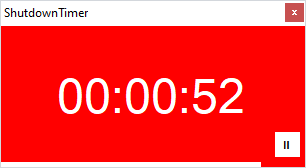
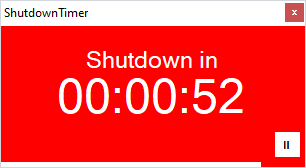
Set default action to reboot on Windows Server

Changed region(s): [[0.2647, 0.2976, 0.7353, 0.4167]]

diff --git a/ShutdownTimer/ShutdownTimer.cs b/ShutdownTimer/ShutdownTimer.cs
@@ -12,6 +12,7 @@ namespace ShutdownTimer
     public partial class ShutdownTimerForm : Form
     {
         CommandLineParameters args;
+        string action = (IsWindowsServer()) ? "reboot" : "shutdown";
         double ShutdownTime = 60;
         int progressHeight = 5;
         int progressWidth = 0;
@@ -26,32 +27,43 @@ namespace ShutdownTimer
             InitializeComponent();
             args = new CommandLineParameters();
             args.loadFromFile();
-            if (args.exists("width"))
-                int.TryParse(args.get("width"), out windowWidth);
-            windowWidth = Math.Min(1000, Math.Max(260, windowWidth));
-            if (args.exists("height"))
-                int.TryParse(args.get("height"), out windowHeight);
-            windowHeight = Math.Min(1000, Math.Max(90, windowHeight));
-            if (args.exists("fontsize"))
-                int.TryParse(args.get("fontsize"), out fontSize);
-            fontSize = Math.Min(100, Math.Max(3, fontSize));
-            if (args.exists("font"))
-                font = args.get("font");
-            if (args.exists("timer"))
-            {
-                string[] timeArr = args.get("timer").Split(':');
-                Array.Reverse(timeArr);
-                double[] mul = new double[] { 1, 60, 60*60 };
-                ShutdownTime = 0;
-                for (int i=0; i<timeArr.Length && i<mul.Length; i++)
+            try {
+                action = (args.exists("reboot")) ? "reboot" :
+                    (args.exists("shutdown")) ? "shutdown" :
+                    action;
+                if (args.exists("width"))
+                    int.TryParse(args.get("width"), out windowWidth);
+                windowWidth = Math.Min(1000, Math.Max(260, windowWidth));
+                if (args.exists("height"))
+                    int.TryParse(args.get("height"), out windowHeight);
+                windowHeight = Math.Min(1000, Math.Max(90, windowHeight));
+                if (args.exists("fontsize"))
+                    int.TryParse(args.get("fontsize"), out fontSize);
+                fontSize = Math.Min(100, Math.Max(3, fontSize));
+                if (args.exists("font"))
+                    font = args.get("font");
+                if (args.exists("timer"))
                 {
-                    double t = 0;
-                    double.TryParse(timeArr[i], out t);
-                    ShutdownTime += t * mul[i];
+                    string[] timeArr = args.get("timer").Split(':');
+                    Array.Reverse(timeArr);
+                    double[] mul = new double[] { 1, 60, 60 * 60 };
+                    ShutdownTime = 0;
+                    for (int i = 0; i < timeArr.Length && i < mul.Length; i++)
+                    {
+                        double t = 0;
+                        double.TryParse(timeArr[i], out t);
+                        ShutdownTime += t * mul[i];
+                    }
                 }
-            } else if (args.exists("at")) {
-                ShutdownTime = (double)GetSecondsUntilTime(args.get("at"));
+                else if (args.exists("at"))
+                {
+                    ShutdownTime = (double)GetSecondsUntilTime(args.get("at"));
+                }
+            } catch(Exception err) {
+                MessageBox.Show("Fel vid tolkning av parametrar.\n"+err.Message);
+                Environment.Exit(1);
             }
+
             ShutdownTime = (Math.Floor(ShutdownTime) > 0) ? Math.Floor(ShutdownTime) : 60;
             timerlabel.Text = TimeSpan.FromSeconds(ShutdownTime).ToString();
             timerprogress.Text = "";
@@ -82,13 +94,13 @@ namespace ShutdownTimer
             pauseButton.Visible = !args.exists("nopause");
             pauseButton.Left = (int)(this.ClientSize.Width - (pauseButton.Width + 5));
             pauseButton.Top = (int)(this.ClientSize.Height - (pauseButton.Height + 5 + ((timerprogress.Visible) ? progressHeight : 0)));
-            if (args.exists("reboot")){
+            if (action == "reboot"){
                 actionlabel.Text = "Reboot in";
             } else {
                 actionlabel.Text = "Shutdown in";
             }
             actionlabel.Font = new Font(font, fontSize / 2);
-            actionlabel.Top = (int)(this.ClientSize.Height / 2) - (actionlabel.Height / 2) - (int)(timerlabel.Height / 1.5);
+            actionlabel.Top = timerlabel.Top - actionlabel.Height + (int)(actionlabel.Height * 0.2);
             actionlabel.Left = (int)(this.ClientSize.Width / 2) - (actionlabel.Width / 2);
             if (args.exists("background"))
             {
@@ -124,7 +136,7 @@ namespace ShutdownTimer
                 timer1.Stop();
                 timer1.Enabled = false;
                 StopWatch.Stop();
-                Shutdown(args.exists("reboot"));
+                Shutdown(action=="reboot");
             }
         }
         private void pauseButton_Click(object sender, EventArgs e)
@@ -151,6 +163,18 @@ namespace ShutdownTimer
             }
             return (int)timeDifference.TotalSeconds;
         }
+        private static bool IsWindowsServer()
+        {
+            using (var searcher = new ManagementObjectSearcher("SELECT * FROM Win32_OperatingSystem"))
+            {
+                foreach (var os in searcher.Get())
+                {
+                    return os["ProductType"].ToString() != "1"; // 1 = Workstation, 2 or 3 = Server
+                }
+            }
+            return false;
+        }
+
         void Shutdown(bool reboot = false)
         {
             ManagementBaseObject mboShutdown = null;

diff --git a/ShutdownTimer/Properties/AssemblyInfo.cs b/ShutdownTimer/Properties/AssemblyInfo.cs
@@ -32,5 +32,5 @@ using System.Runtime.InteropServices;
 // You can specify all the values or you can default the Build and Revision Numbers 
 // by using the '*' as shown below:
 // [assembly: AssemblyVersion("1.0.*")]
-[assembly: AssemblyVersion("1.0.2.0")]
-[assembly: AssemblyFileVersion("1.0.2.0")]
+[assembly: AssemblyVersion("1.0.3.0")]
+[assembly: AssemblyFileVersion("1.0.3.0")]

diff --git a/README.md b/README.md
@@ -6,18 +6,19 @@ A simple shutdown timer using .NET Framework 2.0 and no additional dependencies.
 
 ## Usage
 
-```
+```Bash
 ShutdownTimer.exe --timer 120
 ```
 
 ## Options
 
-```
+```Bash
   ShutdownTimer --timer 120            Set shutdown timer in seconds or hh:mm:ss from now
   ShutdownTimer --at 17:00:00          Set shutdown at time hh:mm:ss
   ShutdownTimer --noprogress           Hide progress bar
   ShutdownTimer --nopause              Hide pause button
-  ShutdownTimer --reboot               Reboot rather than shutdown
+  ShutdownTimer --reboot               Reboot rather than shutdown ⁽¹⁾
+  ShutdownTimer --shutdown             Shutdown rather than reboot ⁽¹⁾
   ShutdownTimer --width                Width of the main window (in pixels)
   ShutdownTimer --height               Height of the main window (in pixels)
   ShutdownTimer --background Teal      Background color of the main window, i.e. "Red" or "#ff0000"
@@ -25,3 +26,5 @@ ShutdownTimer.exe --timer 120
   ShutdownTimer --fontsize 40          Timer fontsize
   ShutdownTimer --saveconfig           Save settings to ShutdownTimer.default in current directory
 ```
+
+<sup>(1)</sup> *The default action is to shutdown unless the program is executed on Windows Server, in this case the default action is reboot. The default action can be overridden by --reboot or --shutdown respectivly.*
